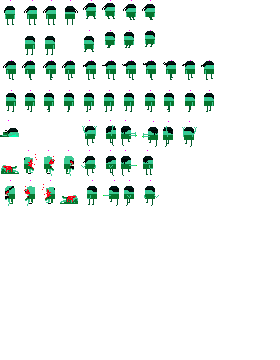
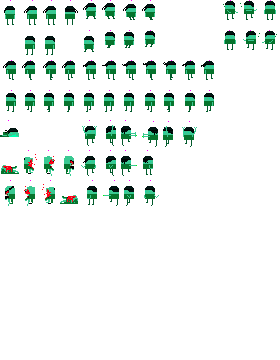
Tuning of 'stun' and 'getting hurt' statuses. Got annoying bug when actor is hopping in wrong direction after being hit.

Changed region(s): [[0.8, 0.0, 0.9143, 0.1528], [0.9429, 0.0, 1.0, 0.1222]]

diff --git a/entity.py b/entity.py
@@ -100,6 +100,7 @@ class Entity(object):
         self.animation_sequence_done = False
         self.animation_not_interruptable = False
         self.current_animation: str = ''
+        self.animation_change_denied: bool = False
         self.frame_number: int = 0
         self.frame_change_counter: int = 0
         self.frames_changing_threshold: float = 0.
@@ -438,11 +439,19 @@ class Entity(object):
     #     # self.fly(time_passed)
     #     self.correct_position_if_influenced()
 
-    def set_current_animation(self):
+    def set_current_animation(self, particular_animation=''):
+        if self.animation_change_denied:
+            return
+
         state = self.get_state()
+        if particular_animation:
+            current_animation = particular_animation
+        else:
+            current_animation = state
+
         # print(state)
         # current_animation = state + str(self.look)
-        current_animation = state
+
         if self.current_weapon:
             if state == self.current_weapon['attack animation']:
                 if self.current_weapon['combo']:
@@ -469,6 +478,8 @@ class Entity(object):
             self.current_animation = current_animation
             self.apply_particular_animation(self.current_animation)
         self.active_frames = list(self.animations[self.current_animation]['activity at frames'].keys())
+        # self.frame_number = 0
+        # self.frame_change_counter = 0
 
     # def set_current_animation_back(self):
     #     state = self.get_state()
@@ -509,15 +520,16 @@ class Entity(object):
                                 self.summoned_protectors_description.append(p)
                     elif action == 'demolisher':
                         # print(f'[process active frames] make attack at frame {self.frame_number}')
-                        self.summon_demolisher = True
                         # self.summoned_demolishers_description = list()
                         dem_set_num = self.animations[self.current_animation]['activity at frames'][self.frame_number]['demolishers set number']
+
                         for d_origin in self.current_weapon['demolishers'][dem_set_num]:
                             d = copy.deepcopy(d_origin)
                             d['parent'] = self
                             d['demolisher sprite'] = d_origin['demolisher sprite']
                             d['snapping offset'] = sprites[self.name + ' ' + str(self.animation_sequence[self.frame_number])]['demolisher snap point']
                             self.summoned_demolishers_description.append(d)
+                        self.summon_demolisher = True
                 else:
                     # Other actions
                     if action == 'move':
@@ -795,9 +807,9 @@ class Entity(object):
 
                     if self.get_state() in ('hanging on edge', 'has just grabbed edge', 'climb on', 'climb on rise'):
                         self.set_state('release edge')
-                        self.state_machine()
-                    else:
-                        self.set_state('prepare to get hurt')
+                        # self.state_machine()
+                    # else:
+                    #     self.set_state('prepare to get hurt')
 
                     # Damage amount show:
                     txt_color = RED if self.id == 0 else WHITE
@@ -849,8 +861,13 @@ class Entity(object):
                         if self.movement_direction_inverter == -1 and self.is_enough_space_left or \
                            self.movement_direction_inverter == 1 and self.is_enough_space_right:
                             # print(f'[demolishers collision] {self.hop_back_jump_height_modifier} {dem.damage["smash"]=}')
-                            self.scheduled_state ='prepare to get hurt'
-                            self.set_state('hopping prepare')
+                            # self.scheduled_state = 'hopping prepare'
+                            # self.scheduled_state ='prepare to get hurt'
+                            self.set_state('prepare to get hurt and hopping')
+                        else:
+                            self.set_state('prepare to get hurt')
+                else:
+                    self.set_state('prepare to get hurt')
 
                 # Blood splatters:
                 if 'slash' in dem.damage.keys():
@@ -877,6 +894,8 @@ class Entity(object):
                             'collides': True,
                             'gravity affected': True
                         })
+
+
 
                 # print('[detect_demolishers_collisions] actor get damage in state:', self.__state)
 
@@ -1459,7 +1478,8 @@ class Entity(object):
             else:
                 self.speed = self.max_speed
 
-        if self.speed <= 0:
+        if self.speed == 0:
+        # if self.speed <= 0:
             self.movement_direction_inverter = 1
 
         self.potential_moving_distance = self.speed

diff --git a/actor.py b/actor.py
@@ -264,7 +264,7 @@ class Actor(Entity):
     #         return False
 
     def set_state(self, new_state):
-        # print(f'[actor.set_state] {self.name} (#{self.id}) got new state: {new_state} at {self.cycles_passed}')
+        print(f'[actor.set_state] {self.name} (#{self.id}) got new state: {new_state} at {self.cycles_passed}')
         self.__state = new_state
         self.set_current_animation()
 
@@ -527,6 +527,7 @@ class Actor(Entity):
                 # print(f'[set action] {self.name} prepares to attack.')
 
     def state_machine(self):
+        state = self.get_state()
         if self.get_state() == 'drop stash':                          #
             self.drop_item_from_inventory(self.inventory['burden']['stash']['item'])
             self.set_state('stand still')
@@ -742,6 +743,7 @@ class Actor(Entity):
             else:
                 if self.speed <= 0:
                     self.ignore_user_input = False
+                    self.animation_change_denied = False
                     if self.just_got_jumped:
                         self.just_got_jumped = False
                     self.is_abort_jump = True
@@ -1163,6 +1165,31 @@ class Actor(Entity):
             if self.animation_sequence_done:
                 print(f'[state machine] {self.name} state: *EXPLOSION*.')
                 self.dying = True
+        elif self.get_state() == 'prepare to get hurt and hopping':
+            self.set_current_animation('getting hurt')
+            self.animation_change_denied = True
+            self.scheduled_state = 'getting hurt'
+            self.set_state('hopping prepare')
+        # elif self.get_state() == 'hopping process while get hurt':
+        #     if not self.is_stunned:
+        #         if self.speed <= 0:
+        #             self.ignore_user_input = False
+        #             if self.just_got_jumped:
+        #                 self.just_got_jumped = False
+        #             self.is_abort_jump = True
+        #             # self.movement_direction_inverter = 1
+        #             # self.set_state('crouch')
+        #             if not self.dead:
+        #                 if self.scheduled_state:
+        #                     self.set_state(self.scheduled_state)
+        #                     self.scheduled_state = ''
+        #                 else:
+        #                     self.set_state('stand still')
+        #             else:
+        #                 if self.has_got_a_critical_hit:
+        #                     self.set_state('lie decapitated')
+        #                 else:
+        #                     self.set_state('lie dead')
         elif self.get_state() == 'prepare to get hurt':
             self.ignore_user_input = True
             self.set_state('getting hurt')
@@ -1170,6 +1197,7 @@ class Actor(Entity):
             if not self.is_stunned:
                 if self.animation_sequence_done:
                     self.ignore_user_input = False
+                    self.animation_change_denied = False
                     self.set_state('stand still')
 
     def reset_self_flags(self):

diff --git a/actors_description.py b/actors_description.py
@@ -35,6 +35,18 @@ zombie = {
     'air acceleration': .1,
     'items': (demon_2_close, demon_2_mid, spikeball_staff),
     'animations': {
+        'getting hurt right': {
+            'repeat': True, 'interruptable': True,
+            'sequence': (11, 12, 13, 13, 13, 13, 13), 'speed': 1,
+            'activity at frames': {},
+            'sound': None, 'sound at frames': (0,), 'repeat from frame': 2
+        },
+        'getting hurt left': {
+            'repeat': True, 'interruptable': True,
+            'sequence': (25, 26, 27, 27, 27, 27, 27), 'speed': 1,
+            'activity at frames': {},
+            'sound': None, 'sound at frames': (0,), 'repeat from frame': 2
+        },
         'stand still right': {
                 'repeat': True, 'interruptable': True,
                 'sequence': (1,1,1,1,1,1,2,1,2,1,1,1,1), 'speed': 20,

diff --git a/world.py b/world.py
@@ -2069,6 +2069,7 @@ class World(object):
             (' SPEED: ' + str(self.actors['player'].speed), WHITE),
             (' MAX SPEED: ' + str(self.actors['player'].max_speed), WHITE),
             (' LOOK: ' + str(self.actors['player'].look), WHITE),
+            (' MOVE INVERTER: ' + str(self.actors['player'].movement_direction_inverter), WHITE),
             (' HEADING: ' + str(self.actors['player'].heading), WHITE),
             (' IDLE COUNT: ' + str(self.actors['player'].idle_counter), (200, 100, 50)),
             (' ACTIVE FRAMES: ' + str(self.actors['player'].active_frames), (200, 100, 50)),

diff --git a/main .py b/main .py
@@ -41,8 +41,8 @@ fades_speed = 100
 # ---------------------------------------------------
 # world.location = 'stairway'
 # world.location = 'luxuryhall'
-world.location = 'lux'
-# world.location = 'entrance'
+# world.location = 'lux'
+world.location = 'entrance'
 # world.location = 'hall'
 world.add_actor(player_jake, (200, 200))
 world.load()
